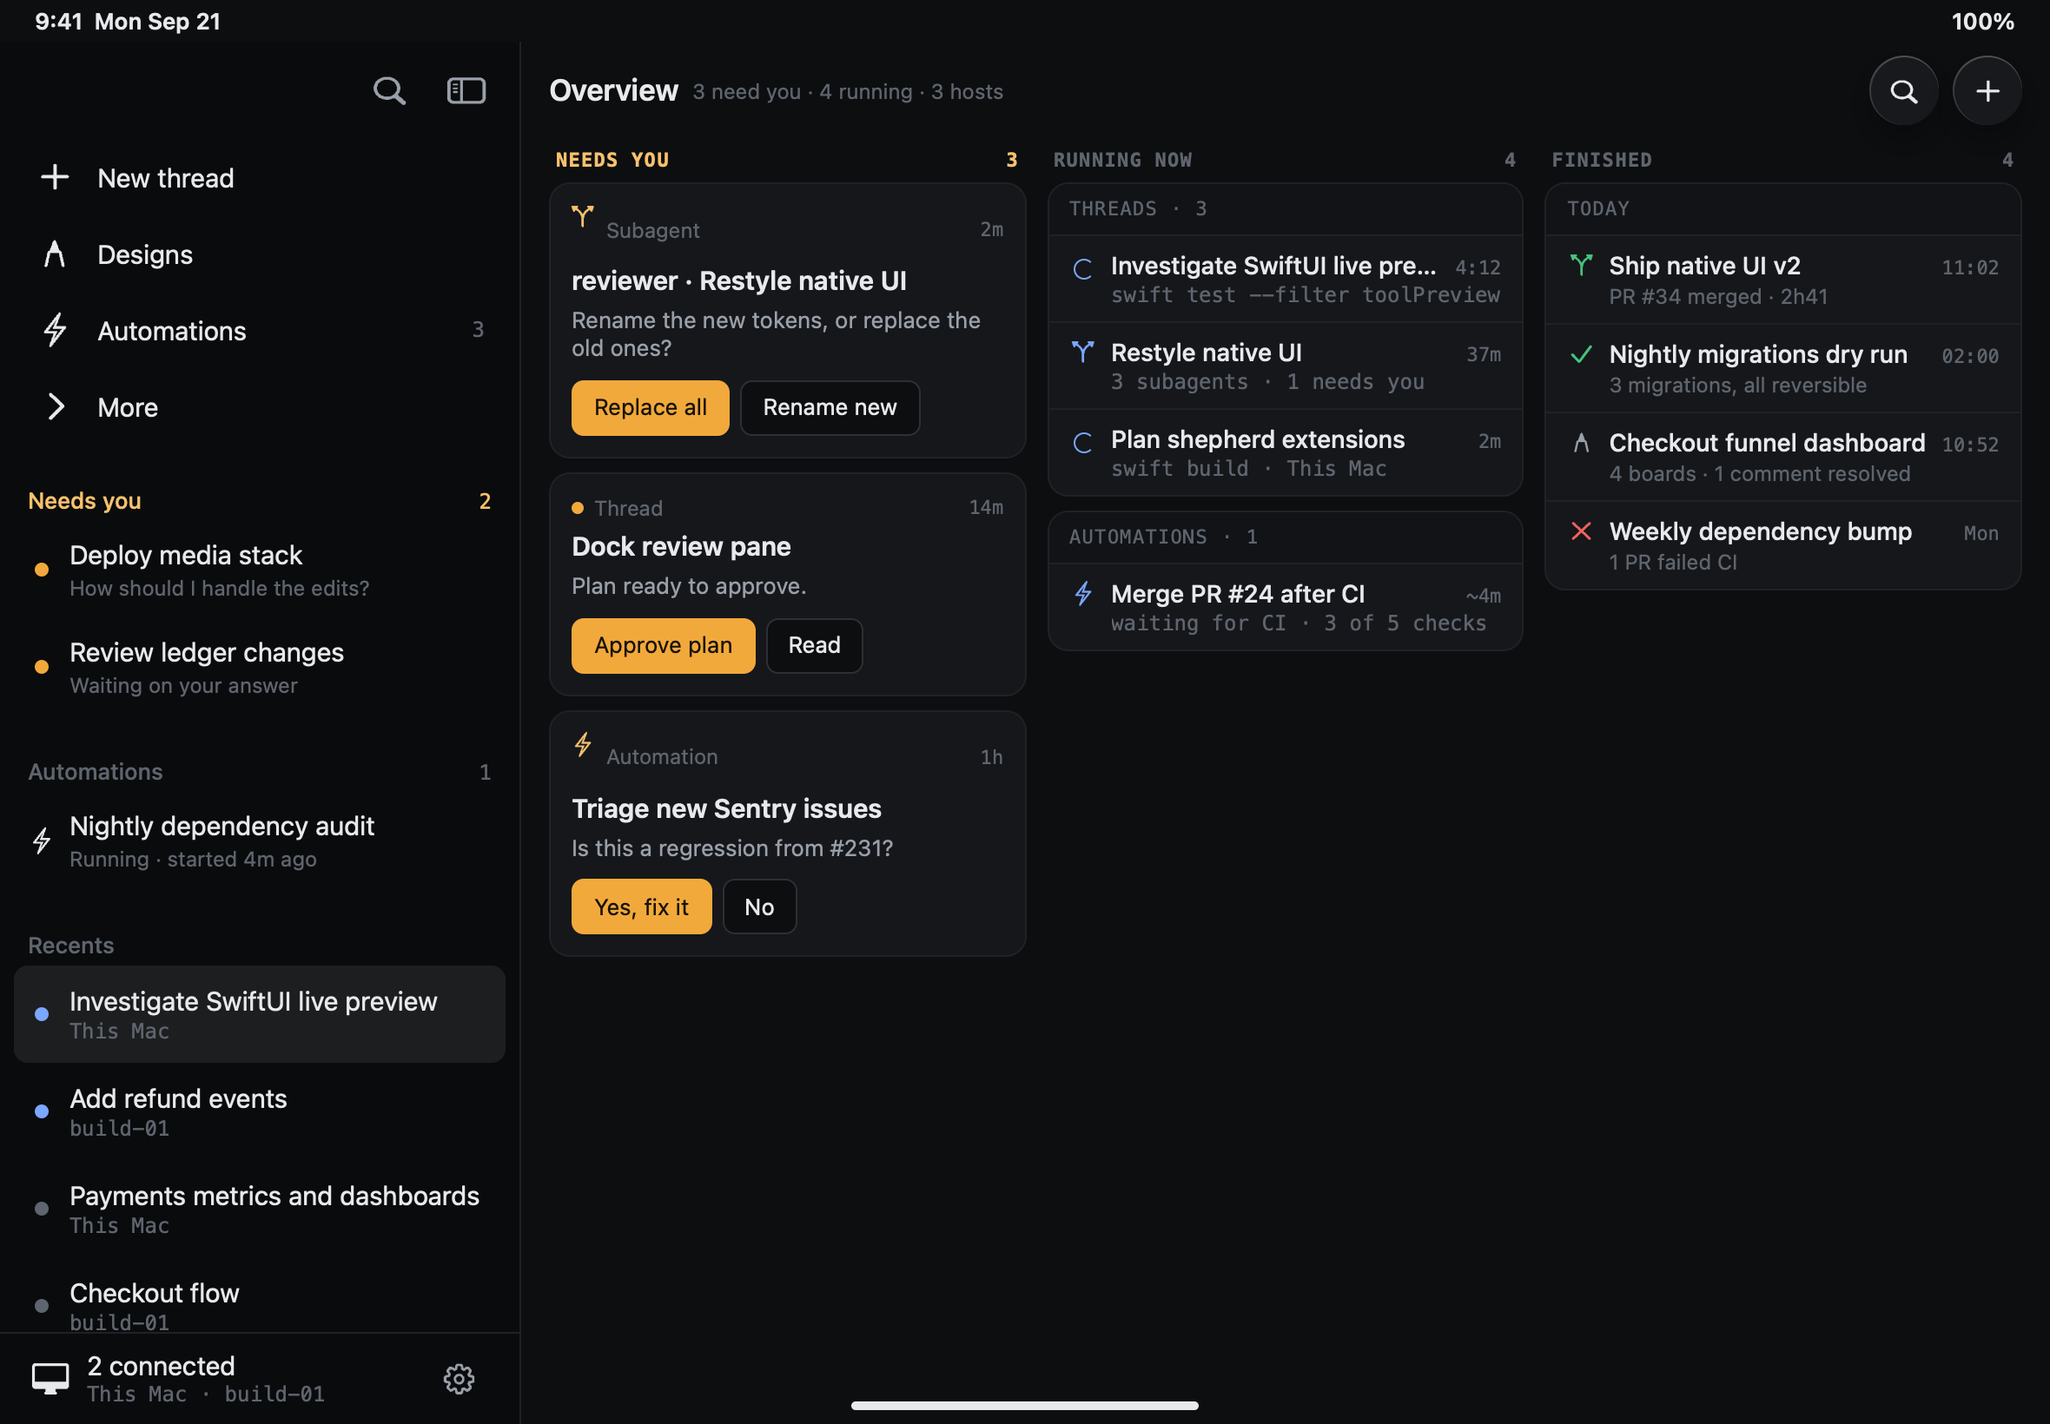
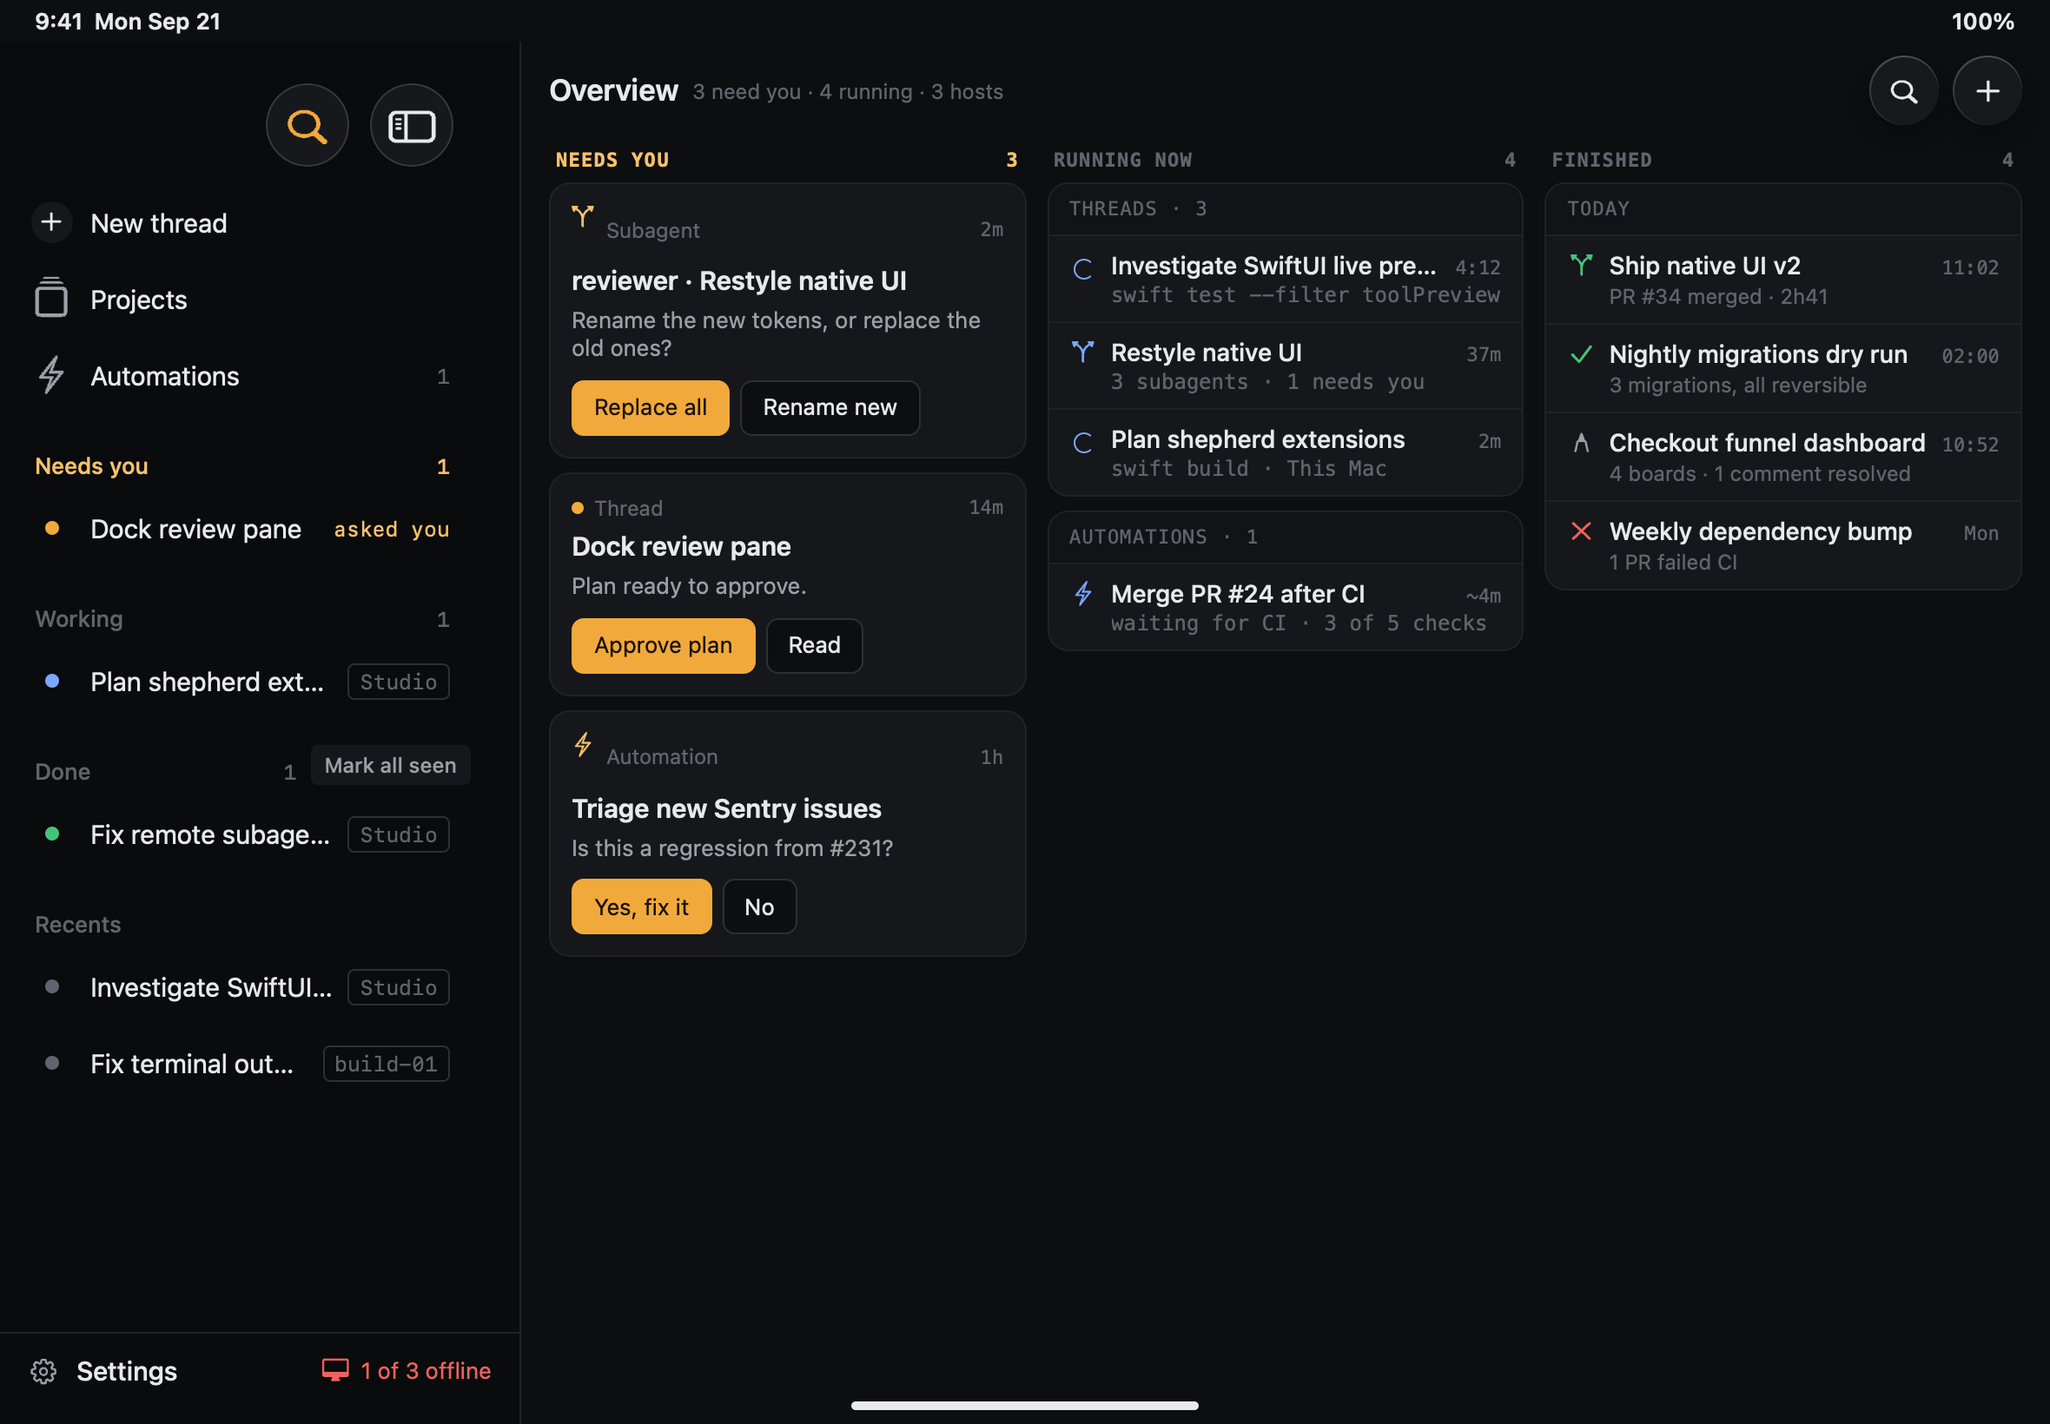
feat(ios): the iPad overview's Needs you, Running now and Finished columns

diff --git a/App/iOS/Home/PadOverview.swift b/App/iOS/Home/PadOverview.swift
@@ -3,24 +3,193 @@ import ShepherdUI
 import ShepherdCore
 import ShepherdRemote
 
-/// The iPad detail with no thread selected: the sidebar lists every thread, so this only
-/// points there and offers a new one.
+/// The iPad detail with no thread selected (iPadOverview board; home track): Needs you with the
+/// answers that fit in place, what runs now, and what finished, side by side when there is room.
+/// With nothing in any column it is an empty state with New thread.
 struct PadOverview: View {
     @Environment(MobileHosts.self) private var hosts
     @Environment(MobileNavigator.self) private var navigator
+    @State private var width: CGFloat = 0
+    @Environment(\.dynamicTypeSize) private var typeSize
 
     var body: some View {
+        let feed = HomeFeed.of(hosts)
+        let model = feed.model
         Group {
             if hosts.hosts.isEmpty {
-                NoHostsState()
-            } else {
+                NoHostsState().frame(maxHeight: .infinity)
+            } else if model.overviewIsEmpty {
                 SHEmptyState(Text("No thread selected"), message: "Pick a thread in the sidebar, or start a new one.") {
                     Button("New thread") { NewThreadHooks.open(navigator: navigator) }.buttonStyle(.sh(.primary))
                 }
+                .frame(maxHeight: .infinity)
+            } else {
+                ScrollView {
+                    Group {
+                        // Side by side when three columns fit; stacked in a narrow window or at large text.
+                        if !typeSize.isAccessibilitySize, width >= MobileLayout.overviewColumnMinWidth * 3 + MobileLayout.blockSpacing * 2 + MobileLayout.gutter * 2 {
+                            HStack(alignment: .top, spacing: MobileLayout.blockSpacing) {
+                                OverviewColumns(model: model, answering: feed.answering, failures: feed.failures)
+                            }
+                        } else {
+                            VStack(alignment: .leading, spacing: MobileLayout.sectionSpacing) {
+                                OverviewColumns(model: model, answering: feed.answering, failures: feed.failures)
+                            }
+                        }
+                    }
+                    .padding(MobileLayout.gutter)
+                }
+                .onGeometryChange(for: CGFloat.self) { $0.size.width } action: { width = $0 }
+                .refreshable {
+                    hosts.retryAll()
+                    await feed.refresh()
+                }
             }
         }
-        .frame(maxWidth: .infinity, maxHeight: .infinity)
+        .frame(maxWidth: .infinity, maxHeight: .infinity, alignment: .top)
         .background(Color.sh.bgWindow)
+        .task { await feed.watch() }
+        .navigationTitle("Overview")
+        .navigationBarTitleDisplayMode(.inline)
+        // The board's head: "Overview" leading, the summary beside it.
+        .toolbar(removing: .title)
+        .toolbar {
+            ToolbarItem(placement: .topBarLeading) {
+                HStack(alignment: .firstTextBaseline, spacing: SH.Space.m) {
+                    Text("Overview").font(.sh(.headline)).foregroundStyle(Color.sh.textPrimary)
+                    if !model.hosts.isEmpty {
+                        Text(model.summary).font(.sh(.caption)).foregroundStyle(Color.sh.textTertiary).lineLimit(1)
+                    }
+                }
+                .fixedSize()
+                .accessibilityElement(children: .combine)
+                .accessibilityAddTraits(.isHeader)
+            }
+            .sharedBackgroundVisibility(.hidden)
+            ToolbarItemGroup(placement: .topBarTrailing) {
+                Button("Search", systemImage: "magnifyingglass") { SearchHooks.open(navigator: navigator) }
+                Button("New thread", systemImage: "plus") { NewThreadHooks.open(navigator: navigator) }
+                    .disabled(model.hosts.isEmpty)
+            }
+        }
+    }
+}
+
+/// Needs you, Running now and Finished, as columns or stacked.
+private struct OverviewColumns: View {
+    let model: FleetModel
+    let answering: Set<String>
+    let failures: [String: String]
+    @Environment(MobileNavigator.self) private var navigator
+    @Environment(MobileProjects.self) private var projects
+
+    var body: some View {
+        column("Needs you", count: model.needsYou.count) {
+            if model.needsYou.isEmpty {
+                quiet("Nothing is waiting on you.")
+            } else {
+                ForEach(model.needsYou) { item in
+                    // Tapping the card outside its answers opens its thread, as its Open does.
+                    AttentionCard(item: item, busy: answering.contains(item.id), failure: failures[item.id])
+                        .contentShape(.rect)
+                        .onTapGesture { navigator.open(projects.route(item)) }
+                }
+            }
+        }
+        column("Running now", count: model.runningCount) {
+            if model.running.isEmpty && model.automationsRunning.isEmpty {
+                quiet("Nothing is running.")
+            }
+            // One card per kind, each under its caption band.
+            if !model.running.isEmpty {
+                SHListCard {
+                    SHCaptionBand("Threads · \(model.running.count)")
+                    ForEach(model.running) { row in runningButton(row) }
+                }
+            }
+            if !model.automationsRunning.isEmpty {
+                SHListCard {
+                    SHCaptionBand("Automations · \(model.automationsRunning.count)")
+                    ForEach(model.automationsRunning) { row in
+                        if let run = row.run {
+                            // The board's row: the bolt in its run's state, what it does and where.
+                            Button { navigator.open(.thread(run.agentRef)) } label: {
+                                SHOverviewRow(row.name, detail: [row.stateWord, row.place, row.hostTag].compactMap { $0 }.joined(separator: " · "),
+                                              leading: .symbol("bolt", row.runStatus == .blocked ? .attention : .running))
+                                    .equatable()
+                            }
+                            .buttonStyle(.shRow(radius: 0))
+                        }
+                    }
+                }
+            }
+        }
+        column("Finished", count: model.finished.count) {
+            if model.finished.isEmpty {
+                quiet("Nothing has finished yet.")
+            } else {
+                // One card, a band per day, each row with the time it finished.
+                TimelineView(.everyMinute) { context in
+                    SHListCard {
+                        ForEach(FleetFinishedDay.days(model.finished, now: context.date)) { day in
+                            SHCaptionBand(day.title)
+                            ForEach(day.rows) { row in finishedButton(row, now: context.date) }
+                        }
+                    }
+                }
+            }
+        }
+    }
+
+    /// A running thread: its state, title and clock, and what it does now.
+    private func runningButton(_ row: FleetThreadRow) -> some View {
+        let time: SHOverviewRow.Time = if case .elapsed(let since)? = row.clock { .elapsed(since: Date(milliseconds: since)) } else { .none }
+        return Button { navigator.open(.thread(row.ref.agentRef)) } label: {
+            SHOverviewRow(row.title, detail: row.now, leading: RunningGlyph.of(row), time: time, dimmed: row.offline)
+                .equatable()
+        }
+        .buttonStyle(.shRow(radius: 0))
+        .contextMenu { ThreadRowMenu(thread: row.ref.agentRef) }
+    }
+
+    /// A finished thread: a check (a cross for a failed last turn), its title over how it ended,
+    /// and when it finished.
+    private func finishedButton(_ row: FleetThreadRow, now: Date) -> some View {
+        Button { navigator.open(.thread(row.ref.agentRef)) } label: {
+            SHOverviewRow(row.title, detail: row.failed ? "failed · \(row.hostName)" : row.detail, detailMono: false,
+                          leading: row.failed ? .symbol("xmark", .failed) : .symbol("checkmark", .done),
+                          time: row.lastMoved.map { .text(FleetFinishedDay.stamp($0, now: now)) } ?? .none, dimmed: row.offline)
+                .equatable()
+        }
+        .buttonStyle(.shRow(radius: 0))
+        .contextMenu { ThreadRowMenu(thread: row.ref.agentRef) }
+    }
+
+    /// A column under its head; Needs you's is `lanternText` (iPadOverview).
+    private func column(_ title: String, count: Int, @ViewBuilder content: () -> some View) -> some View {
+        let tint = title == "Needs you" && count > 0 ? Color.sh.lanternText : Color.sh.textTertiary
+        return VStack(alignment: .leading, spacing: MobileLayout.headerSpacing) {
+            HStack(spacing: SH.Space.s) {
+                Text(title).font(.sh(.micro)).textCase(.uppercase).tracking(SHTextStyle.micro.size * 0.06)
+                    .foregroundStyle(tint).lineLimit(1)
+                Spacer(minLength: SH.Space.xs)
+                Text("\(count)").font(.sh(.micro)).foregroundStyle(tint)
+            }
+            .accessibilityElement(children: .combine)
+            .accessibilityAddTraits(.isHeader)
+            .padding(.horizontal, SH.Space.xs)
+            content()
+        }
+        .frame(minWidth: MobileLayout.overviewColumnMinWidth, maxWidth: .infinity, alignment: .topLeading)
+    }
+
+    private func quiet(_ text: String) -> some View {
+        Text(text)
+            .font(.sh(.caption))
+            .foregroundStyle(Color.sh.textTertiary)
+            .frame(maxWidth: .infinity, minHeight: SH.Height.touch, alignment: .leading)
+            .padding(.horizontal, SH.Space.l)
+            .shCard(radius: SHListMetrics.cardRadius)
     }
 }
 

diff --git a/Tests/ShepherdIOSChecks/Fixtures/HomeFixtures.swift b/Tests/ShepherdIOSChecks/Fixtures/HomeFixtures.swift
@@ -14,6 +14,16 @@ extension FixtureCatalog {
             FixtureScreen(name: "home", prepare: settle),
             FixtureScreen(name: "home-fleet", hosts: fleet, prepare: settle),
             FixtureScreen(name: "home-empty", hosts: []),
+            // iPad: hosts with no threads, so the overview is its empty state.
+            FixtureScreen(name: "home-nothreads", hosts: [FixtureHostData(id: FixtureData.studio, name: "Studio", state: ShepherdState())],
+                          prepare: settle),
+            // iPad: the overview with the sidebar out (portrait), and its rows and Open pressed.
+            FixtureScreen(name: "overview", hosts: fleet, prepare: { app in await settle(app); await OverviewOpenCheck.hideSidebar(app) }),
+            FixtureScreen(name: "overview-open", hosts: fleet, prepare: { app in
+                await settle(app)
+                await OverviewOpenCheck.hideSidebar(app)
+                await OverviewOpenCheck.run(app)
+            }),
             FixtureScreen(name: "home-quiet", hosts: HomeFixtureData.quiet(), prepare: settle),
             FixtureScreen(name: "needsyou", hosts: fleet, routes: [.home(.needsYou)], prepare: settle),
             FixtureScreen(name: "needsyou-empty", hosts: HomeFixtureData.quiet(), routes: [.home(.needsYou)], prepare: settle),
@@ -49,6 +59,43 @@ extension FixtureCatalog {
             FixtureScreen(name: "sidebar-groups", hosts: fleet, routes: [.thread(FixtureData.ref(FixtureData.preview))],
                           prepare: { app in await settle(app); await SidebarGroupsCheck.run(app) }),
         ]
+    }
+}
+
+/// The iPad overview opens what it lists: a running row, a finished row and a Needs you card's Open, each pressed the
+/// way VoiceOver activates it, open their threads.
+@MainActor enum OverviewOpenCheck {
+    /// Portrait shows the sidebar over the overview at first: put it away once the split view has settled.
+    static func hideSidebar(_ app: MobileApp) async {
+        try? await Task.sleep(for: .seconds(1))
+        app.navigator.padColumns = .detailOnly
+        try? await Task.sleep(for: .seconds(1))
+    }
+
+    static func run(_ app: MobileApp) async {
+        func check(_ ok: Bool, _ what: String) { FixtureCheck.report("FIXTURE CHECK \(ok ? "ok" : "FAILED"): \(what)") }
+        SidebarAutomationsCheck.enableAccessibility()
+        try? await Task.sleep(for: .seconds(1))
+        let model = HomeFeed.of(app.hosts).model
+        let cases: [(String, String, AgentRef?)] = [
+            ("a running row", model.running.first?.title ?? "-", model.running.first?.ref.agentRef),
+            ("a finished row", model.finished.first?.title ?? "-", model.finished.first?.ref.agentRef),
+            ("a Needs you card's Open", "Open \(model.needsYou.first?.thread ?? "-")", model.needsYou.first?.ref.agentRef),
+        ]
+        for (what, label, ref) in cases {
+            app.navigator.padSelection = nil
+            await hideSidebar(app)
+            check(app.navigator.padColumns == .detailOnly, "the sidebar is out, so only the overview's element matches")
+            // The overview's element, not the sidebar's row of the same thread (the sidebar is out).
+            guard let ref, let element = SidebarAutomationsCheck.all.first(where: { $0.accessibilityLabel?.hasPrefix(label) == true }) else {
+                check(false, "\(what) to press (\(label))")
+                continue
+            }
+            let pressed = element.accessibilityActivate()
+            await FixtureCheck.wait("\(what) to open its thread", seconds: 5) { app.navigator.selectedThread == ref }
+            check(pressed && app.navigator.selectedThread == ref, "pressing \(what) opens its thread")
+        }
+        app.navigator.padSelection = nil
     }
 }
 

diff --git a/Tests/ShepherdRemoteUnitTests/FleetOverviewTests.swift b/Tests/ShepherdRemoteUnitTests/FleetOverviewTests.swift
@@ -46,6 +46,20 @@ struct FleetOverviewTests {
         #expect(row.now == now)
     }
 
+    /// The overview is its empty state only while every column is empty: idle threads alone fill none.
+    @Test(arguments: [
+        ([AgentStatus](), true),
+        ([.idle], true),
+        ([.idle, .working], false),
+        ([.done], false),
+        ([.blocked], false),
+    ] as [([AgentStatus], Bool)])
+    func theOverviewIsEmptyWhenNothingWaitsRunsOrFinished(statuses: [AgentStatus], empty: Bool) {
+        let agents = statuses.enumerated().map { FleetTests.agent("a\($0.offset)", $0.element) }
+        let model = FleetModel(hosts: [FleetTests.host(FleetTests.studio, "Studio", agents: agents)], digests: [:])
+        #expect(model.overviewIsEmpty == empty)
+    }
+
     @Test func aRunningThreadCarriesItsSubagentsIntoItsRowAndASettledOneDoesNot() {
         let digest = FleetTests.digest(FleetTests.snapshot(running: true, subagents: [
             Fixture.run("worker"), Fixture.run("reviewer", state: "paused", needsAttention: true),

diff --git a/Sources/ShepherdRemote/Fleet.swift b/Sources/ShepherdRemote/Fleet.swift
@@ -422,6 +422,9 @@ public struct FleetModel: Equatable, Sendable {
     /// Threads and automation runs going now: the overview's Running now.
     public var runningCount: Int { running.count + automationsRunning.count }
 
+    /// Nothing for the overview's columns: no question, nothing running, nothing finished.
+    public var overviewIsEmpty: Bool { needsYou.isEmpty && runningCount == 0 && finished.isEmpty }
+
     /// "4 need you · 6 running · 3 hosts".
     public var summary: String {
         var parts: [String] = []

diff --git a/App/iOS/Home/HomeLayout.swift b/App/iOS/Home/HomeLayout.swift
@@ -7,6 +7,8 @@ extension MobileLayout {
     static let headerSpacing: CGFloat = SH.Space.s
     /// Between Home's sections.
     static let sectionSpacing: CGFloat = SH.Space.xxl
+    /// An iPad overview column at its narrowest; narrower windows stack the columns.
+    static let overviewColumnMinWidth: CGFloat = 256
     /// The iPad inbox's list beside the chosen item.
     static let inboxListWidth: CGFloat = 360
     /// Host cards on a wide screen, each at least this wide.

diff --git a/App/iOS/Home/AutomationRow.swift b/App/iOS/Home/AutomationRow.swift
@@ -3,7 +3,7 @@ import ShepherdUI
 import ShepherdCore
 import ShepherdRemote
 
-/// An automation run as Home's overview lists it (iPadOverview's Running now): read-only here;
+/// An automation run as the iPad sidebar lists it: read-only here;
 /// the Automations screen (automations track) is where they are managed.
 struct AutomationRow: View, Equatable {
     let row: FleetAutomationRow
